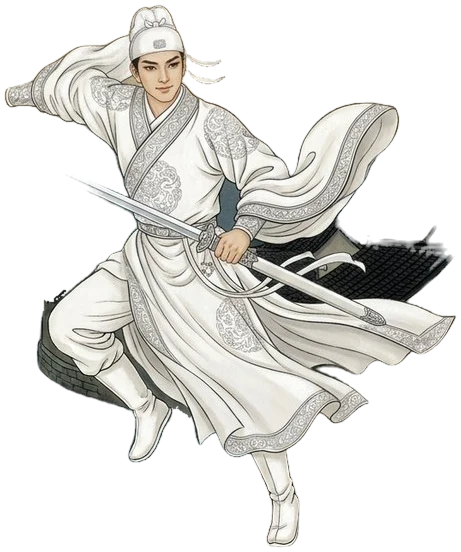
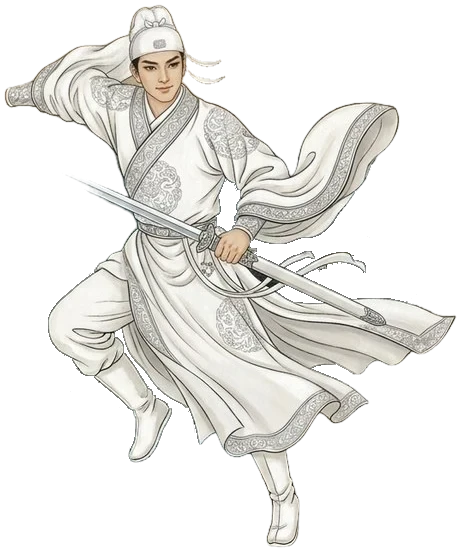
Normalize NPC cutout display scale and refine Bai Yutang/Fakong cutouts

diff --git a/src/components/common/CutoutPortraitImg.tsx b/src/components/common/CutoutPortraitImg.tsx
@@ -1,4 +1,9 @@
+import type { CSSProperties } from 'react'
+import cutoutMetricsJson from '../../data/cutoutMetrics.json'
 import { useLazyImage } from '../../utils/assetLoader'
+
+const CUTOUT_HEIGHT_PCT_BY_URL: Record<string, number> = cutoutMetricsJson
+const DEFAULT_CUTOUT_HEIGHT_PCT = 88
 
 /**
  * Maps a fullbody or template portrait URL (`/assets/characters/{fullbody,templates}/<name>.jpg`)
@@ -24,9 +29,10 @@ interface CutoutPortraitImgProps {
   url: string
   alt: string
   className?: string
+  style?: CSSProperties
 }
 
-export function CutoutPortraitImg({ url, alt, className }: CutoutPortraitImgProps) {
+export function CutoutPortraitImg({ url, alt, className, style }: CutoutPortraitImgProps) {
   const cutoutUrl = resolveCutoutPortraitUrl(url)
   const { loadedUrl } = useLazyImage(cutoutUrl)
 
@@ -41,5 +47,21 @@ export function CutoutPortraitImg({ url, alt, className }: CutoutPortraitImgProp
     )
   }
 
-  return <img src={loadedUrl} alt={alt} className={className} decoding="async" />
+  const heightPct =
+    (cutoutUrl ? CUTOUT_HEIGHT_PCT_BY_URL[cutoutUrl] : undefined) ?? DEFAULT_CUTOUT_HEIGHT_PCT
+
+  return (
+    <img
+      src={loadedUrl}
+      alt={alt}
+      className={className}
+      style={{
+        height: `${heightPct}%`,
+        width: 'auto',
+        maxWidth: '88vw',
+        ...style,
+      }}
+      decoding="async"
+    />
+  )
 }

diff --git a/src/components/hud/NpcInteractionOverlay.tsx b/src/components/hud/NpcInteractionOverlay.tsx
@@ -133,7 +133,7 @@ export function NpcInteractionOverlay() {
         }`}
       >
         <div
-          className="relative h-full max-w-[90vw] flex items-end justify-center"
+          className="relative h-full w-full max-w-[90vw] flex items-end justify-center"
           style={{
             filter: 'drop-shadow(0 14px 28px rgba(0, 0, 0, 0.75))',
           }}
@@ -141,7 +141,7 @@ export function NpcInteractionOverlay() {
           <CutoutPortraitImg
             url={portraitUrl}
             alt={npc.name}
-            className="max-h-full w-auto object-contain"
+            className="object-contain select-none"
           />
         </div>
       </div>

diff --git a/scripts/extract_npc_cutouts.py b/scripts/extract_npc_cutouts.py
@@ -11,6 +11,7 @@ Outputs:
 
 from __future__ import annotations
 
+import json
 import os
 import sys
 import time
@@ -23,20 +24,77 @@ os.environ.setdefault("MKL_NUM_THREADS", "1")
 
 import numpy as np
 from PIL import Image
-from rembg import new_session, remove
-from scipy.ndimage import binary_fill_holes, gaussian_filter, label
 
 ROOT = Path(__file__).resolve().parent.parent
 CHARS_DIR = ROOT / "public" / "assets" / "characters"
 OUT_DIR = CHARS_DIR / "cutouts"
+METRICS_JSON = ROOT / "src" / "data" / "cutoutMetrics.json"
 
 _S_ISNET = None
 _S_U2NET = None
 
 
+def compute_height_pct(im: Image.Image) -> float:
+    """
+    Compute normalized stage height percentage (73.0..98.0) for a cropped character cutout
+    so characters of varying intrinsic pixel dimensions, poses (leaping, seated on lotus
+    pedestal, wide cape/aura), and vertical weapon/plume overhangs render at consistent
+    visual body/head proportions.
+    """
+    arr = np.array(im.convert("RGBA"))
+    a = arr[:, :, 3] > 96
+    h, w = a.shape
+    opaque_px = float(a.sum())
+    if opaque_px < 100 or h < 10:
+        return 88.0
+
+    row_w = a.sum(axis=1)
+    pos_rw = row_w[row_w > 0]
+    ref_rw = float(np.percentile(pos_rw, 85)) if len(pos_rw) else float(w)
+
+    # Detect thin vertical weapons/plumes/flames rising above the character's head/hat
+    body_rows = np.where(row_w >= max(8.0, ref_rw * 0.24))[0]
+    raw_top_ext = float(body_rows[0]) / float(h) if len(body_rows) >= 10 else 0.0
+    aspect = float(w) / float(h)
+    top_ext = min(raw_top_ext, 0.06 if aspect > 0.88 else 0.26)
+
+    body_h = float(h) * (1.0 - top_ext)
+    eq = float(np.sqrt(opaque_px)) / max(1.0, body_h)
+
+    target_body_pct = 88.0
+    if eq > 0.56:
+        target_body_pct *= (0.56 / eq) ** 0.55
+    elif eq < 0.45:
+        target_body_pct *= min(1.045, (0.45 / eq) ** 0.25)
+
+    bbox_pct = target_body_pct / (1.0 - min(0.22, top_ext * 0.88))
+    return round(float(np.clip(bbox_pct, 73.0, 98.0)), 1)
+
+
+def write_cutout_metrics() -> int:
+    metrics: dict[str, float] = {}
+    for sub in ("fullbody", "templates"):
+        sub_dir = OUT_DIR / sub
+        if not sub_dir.exists():
+            continue
+        for p in sorted(sub_dir.glob("*.webp")):
+            with Image.open(p) as im:
+                url = f"/assets/characters/cutouts/{sub}/{p.name}"
+                metrics[url] = compute_height_pct(im)
+
+    METRICS_JSON.parent.mkdir(parents=True, exist_ok=True)
+    METRICS_JSON.write_text(
+        json.dumps(metrics, indent=2, ensure_ascii=False) + "\n",
+        encoding="utf-8",
+    )
+    print(f"Wrote {len(metrics)} normalized cutout scale entries to {METRICS_JSON.relative_to(ROOT)}")
+    return len(metrics)
+
+
 def _init_worker() -> None:
     global _S_ISNET, _S_U2NET
     import onnxruntime as ort
+    from rembg import new_session
 
     sess_opts = ort.SessionOptions()
     sess_opts.intra_op_num_threads = 1
@@ -46,6 +104,9 @@ def _init_worker() -> None:
 
 
 def _process_one(task: tuple[str, str]) -> tuple[str, bool, str]:
+    from rembg import remove
+    from scipy.ndimage import binary_fill_holes, gaussian_filter, label
+
     src_str, dst_str = task
     src = Path(src_str)
     dst = Path(dst_str)
@@ -95,6 +156,10 @@ def _process_one(task: tuple[str, str]) -> tuple[str, bool, str]:
 
 
 def main() -> int:
+    if "--metrics-only" in sys.argv:
+        write_cutout_metrics()
+        return 0
+
     force = "--force" in sys.argv
     tasks: list[tuple[str, str]] = []
     for sub in ("fullbody", "templates"):
@@ -109,6 +174,7 @@ def main() -> int:
 
     if not tasks:
         print("All cutouts already up to date.")
+        write_cutout_metrics()
         return 0
 
     workers = min(2, os.cpu_count() or 1)
@@ -138,6 +204,7 @@ def main() -> int:
         f"Completed {done - failed}/{len(tasks)} cutouts in {time.time() - t0:.1f}s.",
         flush=True,
     )
+    write_cutout_metrics()
     return 1 if failed else 0
 
 
